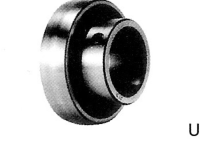
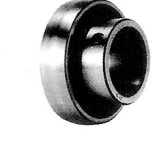
Add technical diagrams for all 5 insert-bearing types on ball_bearing_unit.html
- Cropped UC/UK photos tighter to remove the neighboring label text ("U"/"UK")
  that was bleeding in on the right edge
- Added a labeled cross-section concept SVG (d/D/B) next to the UC and UK
  photos, since the source catalog page only has photos, not a dimensioned
  drawing, for the bare insert
- Added the same kind of concept SVG to SB, SA and SC (previously had no
  diagram at all) - SA's shows the offset eccentric locking collar, SC has
  no fixing screw shown since it's press-fit. Labeled as concept diagrams
  since no JIB source scan is available in this session to crop a real one

diff --git a/company-homepage/ball_bearing_unit.html b/company-homepage/ball_bearing_unit.html
@@ -119,9 +119,28 @@
       <div class="cat-tab-panel" data-panel="uc">
         <p class="cat-tab-panel-desc">UC(내경 표준, 세트스크류 고정) 인서트 베어링입니다. 소형(UC2xx)&middot;중형(UC3xx) 규격을 모두 포함합니다.</p>
         <div style="background: #f4f4f2; border: 1px solid var(--border); border-radius: var(--radius-md); padding: 20px 20px 16px; margin: 4px 0 18px;">
-          <p style="text-align: center; font-size: 11px; color: #999; margin: 0 0 14px;">당사 SWS 카탈로그 규격 도면</p>
-          <img src="img/ubu_uc_only.png" alt="UC 인서트 베어링" style="display: block; margin: 0 auto; height: 160px; width: auto; max-width: 100%; object-fit: contain; image-rendering: -webkit-optimize-contrast;" loading="lazy">
-          <p style="font-size: 11.5px; color: var(--text-sub); text-align: center; margin: 10px 0 0;">d(내경) · D(외경) · B(폭)</p>
+          <p style="text-align: center; font-size: 11px; color: #999; margin: 0 0 14px;">당사 SWS 카탈로그 규격 도면 · 구조 단면도(개념도)</p>
+          <div style="display: flex; gap: 24px; justify-content: center; align-items: center; flex-wrap: wrap;">
+            <img src="img/ubu_uc_only.png" alt="UC 인서트 베어링" style="display: block; height: 150px; width: auto; max-width: 100%; object-fit: contain; image-rendering: -webkit-optimize-contrast;" loading="lazy">
+            <svg viewBox="0 0 200 200" style="display: block; width: 150px; height: 150px;" aria-label="UC 단면 개념도">
+              <circle cx="100" cy="100" r="78" fill="none" stroke="#333" stroke-width="2.2" />
+              <circle cx="100" cy="100" r="55" fill="none" stroke="#999" stroke-width="1.4" stroke-dasharray="4,3" />
+              <circle cx="100" cy="100" r="34" fill="#e7e7e4" stroke="#333" stroke-width="2" />
+              <rect x="150" y="90" width="16" height="20" rx="2" fill="none" stroke="#333" stroke-width="1.6" transform="rotate(20 158 100)" />
+              <g stroke="#666" stroke-width="1" fill="none">
+                <line x1="12" y1="22" x2="12" y2="178" marker-start="url(#ucArrow)" marker-end="url(#ucArrow)" />
+              </g>
+              <text x="12" y="14" text-anchor="middle" font-size="15" fill="#333" font-weight="600">D</text>
+              <g stroke="#666" stroke-width="1" fill="none">
+                <line x1="66" y1="100" x2="134" y2="100" marker-start="url(#ucArrow)" marker-end="url(#ucArrow)" />
+              </g>
+              <text x="100" y="120" text-anchor="middle" font-size="15" fill="#333" font-weight="600">d</text>
+              <defs>
+                <marker id="ucArrow" markerWidth="6" markerHeight="6" refX="3" refY="3" orient="auto"><path d="M0,0 L6,3 L0,6 Z" fill="#666" /></marker>
+              </defs>
+            </svg>
+          </div>
+          <p style="font-size: 11.5px; color: var(--text-sub); text-align: center; margin: 10px 0 0;">d(내경) · D(외경) · B(폭) · 사각형=세트스크류(고정나사)</p>
         </div>
         <div class="field" style="max-width: 360px; margin-bottom: 16px;">
           <label for="ucFilter">형번 / 규격 검색</label>
@@ -154,9 +173,28 @@
       <div class="cat-tab-panel" data-panel="uk" hidden>
         <p class="cat-tab-panel-desc">UK(테이퍼 내경, 어댑터 슬리브 사용) 인서트 베어링입니다. 소형(UK2xx)&middot;중형(UK3xx) 규격을 모두 포함합니다.</p>
         <div style="background: #f4f4f2; border: 1px solid var(--border); border-radius: var(--radius-md); padding: 20px 20px 16px; margin: 4px 0 18px;">
-          <p style="text-align: center; font-size: 11px; color: #999; margin: 0 0 14px;">당사 SWS 카탈로그 규격 도면</p>
-          <img src="img/ubu_uk_only.png" alt="UK 인서트 베어링" style="display: block; margin: 0 auto; height: 160px; width: auto; max-width: 100%; object-fit: contain; image-rendering: -webkit-optimize-contrast;" loading="lazy">
-          <p style="font-size: 11.5px; color: var(--text-sub); text-align: center; margin: 10px 0 0;">d(내경) · D(외경) · B(폭)</p>
+          <p style="text-align: center; font-size: 11px; color: #999; margin: 0 0 14px;">당사 SWS 카탈로그 규격 도면 · 구조 단면도(개념도)</p>
+          <div style="display: flex; gap: 24px; justify-content: center; align-items: center; flex-wrap: wrap;">
+            <img src="img/ubu_uk_only.png" alt="UK 인서트 베어링" style="display: block; height: 150px; width: auto; max-width: 100%; object-fit: contain; image-rendering: -webkit-optimize-contrast;" loading="lazy">
+            <svg viewBox="0 0 200 200" style="display: block; width: 150px; height: 150px;" aria-label="UK 단면 개념도">
+              <circle cx="100" cy="100" r="78" fill="none" stroke="#333" stroke-width="2.2" />
+              <circle cx="100" cy="100" r="55" fill="none" stroke="#999" stroke-width="1.4" stroke-dasharray="4,3" />
+              <path d="M78,80 L124,72 L124,128 L78,120 Z" fill="#e7e7e4" stroke="#333" stroke-width="2" />
+              <rect x="150" y="90" width="16" height="20" rx="2" fill="none" stroke="#333" stroke-width="1.6" transform="rotate(20 158 100)" />
+              <g stroke="#666" stroke-width="1" fill="none">
+                <line x1="12" y1="22" x2="12" y2="178" marker-start="url(#ukArrow)" marker-end="url(#ukArrow)" />
+              </g>
+              <text x="12" y="14" text-anchor="middle" font-size="15" fill="#333" font-weight="600">D</text>
+              <g stroke="#666" stroke-width="1" fill="none">
+                <line x1="55" y1="100" x2="145" y2="100" marker-start="url(#ukArrow)" marker-end="url(#ukArrow)" />
+              </g>
+              <text x="100" y="145" text-anchor="middle" font-size="14" fill="#333" font-weight="600">d (테이퍼)</text>
+              <defs>
+                <marker id="ukArrow" markerWidth="6" markerHeight="6" refX="3" refY="3" orient="auto"><path d="M0,0 L6,3 L0,6 Z" fill="#666" /></marker>
+              </defs>
+            </svg>
+          </div>
+          <p style="font-size: 11.5px; color: var(--text-sub); text-align: center; margin: 10px 0 0;">d(내경, 테이퍼) · D(외경) · B(폭) · 어댑터 슬리브로 축에 고정</p>
         </div>
         <div class="field" style="max-width: 360px; margin-bottom: 16px;">
           <label for="ukFilter">형번 / 규격 검색</label>
@@ -181,6 +219,21 @@
 
       <div class="cat-tab-panel" data-panel="sb" hidden>
         <p class="cat-tab-panel-desc">세트스크류(고정나사)로 축에 고정하는 SB(CSB) 인서트 베어링입니다.</p>
+        <div style="background: #f4f4f2; border: 1px solid var(--border); border-radius: var(--radius-md); padding: 20px 20px 16px; margin: 4px 0 18px;">
+          <p style="text-align: center; font-size: 11px; color: #999; margin: 0 0 14px;">구조 단면도(개념도) · JIB 카탈로그에는 실물 사진이 없어 구조만 개념도로 표시합니다</p>
+          <svg viewBox="0 0 200 200" style="display: block; margin: 0 auto; width: 150px; height: 150px;" aria-label="SB 단면 개념도">
+            <circle cx="100" cy="100" r="78" fill="none" stroke="#333" stroke-width="2.2" />
+            <circle cx="100" cy="100" r="55" fill="none" stroke="#999" stroke-width="1.4" stroke-dasharray="4,3" />
+            <circle cx="100" cy="100" r="34" fill="#e7e7e4" stroke="#333" stroke-width="2" />
+            <rect x="150" y="90" width="16" height="20" rx="2" fill="none" stroke="#333" stroke-width="1.6" transform="rotate(20 158 100)" />
+            <g stroke="#666" stroke-width="1" fill="none"><line x1="12" y1="22" x2="12" y2="178" marker-start="url(#sbArrow)" marker-end="url(#sbArrow)" /></g>
+            <text x="12" y="14" text-anchor="middle" font-size="15" fill="#333" font-weight="600">D</text>
+            <g stroke="#666" stroke-width="1" fill="none"><line x1="66" y1="100" x2="134" y2="100" marker-start="url(#sbArrow)" marker-end="url(#sbArrow)" /></g>
+            <text x="100" y="120" text-anchor="middle" font-size="15" fill="#333" font-weight="600">d</text>
+            <defs><marker id="sbArrow" markerWidth="6" markerHeight="6" refX="3" refY="3" orient="auto"><path d="M0,0 L6,3 L0,6 Z" fill="#666" /></marker></defs>
+          </svg>
+          <p style="font-size: 11.5px; color: var(--text-sub); text-align: center; margin: 10px 0 0;">d(내경) · D(외경) · B(폭) · 사각형=세트스크류(고정나사)</p>
+        </div>
         <div class="field" style="max-width: 360px; margin-bottom: 16px;">
           <label for="sbFilter">형번 / 규격 검색</label>
           <input id="sbFilter" type="text" placeholder="예: SB206 또는 30*62" autocomplete="off" />
@@ -198,6 +251,21 @@
 
       <div class="cat-tab-panel" data-panel="sa" hidden>
         <p class="cat-tab-panel-desc">편심고정링으로 축에 고정하는 SA(CSA) 인서트 베어링입니다.</p>
+        <div style="background: #f4f4f2; border: 1px solid var(--border); border-radius: var(--radius-md); padding: 20px 20px 16px; margin: 4px 0 18px;">
+          <p style="text-align: center; font-size: 11px; color: #999; margin: 0 0 14px;">구조 단면도(개념도) · JIB 카탈로그에는 실물 사진이 없어 구조만 개념도로 표시합니다</p>
+          <svg viewBox="0 0 200 200" style="display: block; margin: 0 auto; width: 150px; height: 150px;" aria-label="SA 단면 개념도">
+            <circle cx="100" cy="100" r="78" fill="none" stroke="#333" stroke-width="2.2" />
+            <circle cx="100" cy="100" r="55" fill="none" stroke="#999" stroke-width="1.4" stroke-dasharray="4,3" />
+            <circle cx="100" cy="100" r="34" fill="#e7e7e4" stroke="#333" stroke-width="2" />
+            <circle cx="112" cy="92" r="14" fill="none" stroke="#333" stroke-width="1.8" stroke-dasharray="3,2" />
+            <g stroke="#666" stroke-width="1" fill="none"><line x1="12" y1="22" x2="12" y2="178" marker-start="url(#saArrow)" marker-end="url(#saArrow)" /></g>
+            <text x="12" y="14" text-anchor="middle" font-size="15" fill="#333" font-weight="600">D</text>
+            <g stroke="#666" stroke-width="1" fill="none"><line x1="66" y1="100" x2="134" y2="100" marker-start="url(#saArrow)" marker-end="url(#saArrow)" /></g>
+            <text x="100" y="120" text-anchor="middle" font-size="15" fill="#333" font-weight="600">d</text>
+            <defs><marker id="saArrow" markerWidth="6" markerHeight="6" refX="3" refY="3" orient="auto"><path d="M0,0 L6,3 L0,6 Z" fill="#666" /></marker></defs>
+          </svg>
+          <p style="font-size: 11.5px; color: var(--text-sub); text-align: center; margin: 10px 0 0;">d(내경) · D(외경) · B1(폭) · 점선 원=편심고정링(오프셋 위치에서 조여 고정)</p>
+        </div>
         <div class="field" style="max-width: 360px; margin-bottom: 16px;">
           <label for="saFilter">형번 / 규격 검색</label>
           <input id="saFilter" type="text" placeholder="예: SA206 또는 30*62" autocomplete="off" />
@@ -215,6 +283,20 @@
 
       <div class="cat-tab-panel" data-panel="sc" hidden>
         <p class="cat-tab-panel-desc">압입 고정형 SC 인서트 베어링입니다.</p>
+        <div style="background: #f4f4f2; border: 1px solid var(--border); border-radius: var(--radius-md); padding: 20px 20px 16px; margin: 4px 0 18px;">
+          <p style="text-align: center; font-size: 11px; color: #999; margin: 0 0 14px;">구조 단면도(개념도) · JIB 카탈로그에는 실물 사진이 없어 구조만 개념도로 표시합니다</p>
+          <svg viewBox="0 0 200 200" style="display: block; margin: 0 auto; width: 150px; height: 150px;" aria-label="SC 단면 개념도">
+            <circle cx="100" cy="100" r="78" fill="none" stroke="#333" stroke-width="2.2" />
+            <circle cx="100" cy="100" r="55" fill="none" stroke="#999" stroke-width="1.4" stroke-dasharray="4,3" />
+            <circle cx="100" cy="100" r="34" fill="#e7e7e4" stroke="#333" stroke-width="2" />
+            <g stroke="#666" stroke-width="1" fill="none"><line x1="12" y1="22" x2="12" y2="178" marker-start="url(#scArrow)" marker-end="url(#scArrow)" /></g>
+            <text x="12" y="14" text-anchor="middle" font-size="15" fill="#333" font-weight="600">D</text>
+            <g stroke="#666" stroke-width="1" fill="none"><line x1="66" y1="100" x2="134" y2="100" marker-start="url(#scArrow)" marker-end="url(#scArrow)" /></g>
+            <text x="100" y="120" text-anchor="middle" font-size="15" fill="#333" font-weight="600">d</text>
+            <defs><marker id="scArrow" markerWidth="6" markerHeight="6" refX="3" refY="3" orient="auto"><path d="M0,0 L6,3 L0,6 Z" fill="#666" /></marker></defs>
+          </svg>
+          <p style="font-size: 11.5px; color: var(--text-sub); text-align: center; margin: 10px 0 0;">d(내경) · D(외경) · C(폭) · 별도 고정나사 없이 하우징에 압입 고정</p>
+        </div>
         <div class="field" style="max-width: 360px; margin-bottom: 16px;">
           <label for="scFilter">형번 / 규격 검색</label>
           <input id="scFilter" type="text" placeholder="예: SC206 또는 30*62" autocomplete="off" />
